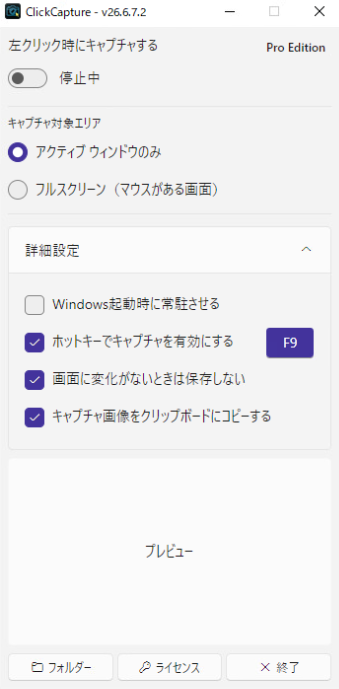
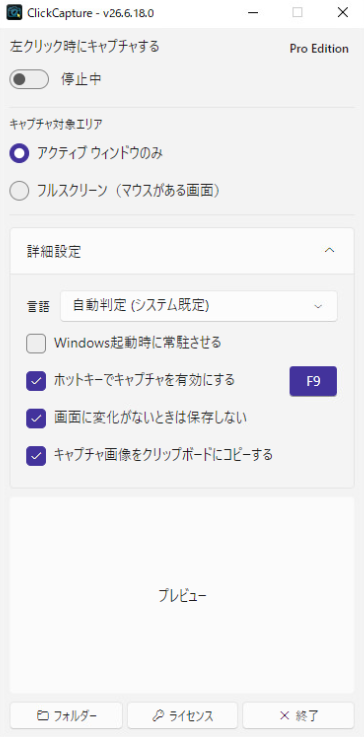
ClickCapture26.6.18.0

diff --git a/clickcapture.html b/clickcapture.html
@@ -192,6 +192,26 @@
                         </div>
 
                         <div class="col-md-6 mb-3">
+                            <div class="screenshot-container shadow" data-bs-toggle="modal" data-bs-target="#imageModal" onclick="showImage('/img/clickcapture-lang1.png')">
+                                <img src="/img/clickcapture-lang1.png" alt="多言語選択メニュー 1" class="screenshot-img">
+                            </div>
+                            <div class="screenshot-description">
+                                <h4 class="h6 fw-bold text-accent"><i class="bi bi-translate me-1"></i>多言語選択メニュー (1/2)</h4>
+                                <p class="text-white-50 small mb-0">新たに多言語表示に対応し、設定画面からお好みの言語のUIへ切り替えられるようになりました。</p>
+                            </div>
+                        </div>
+
+                        <div class="col-md-6 mb-3">
+                            <div class="screenshot-container shadow" data-bs-toggle="modal" data-bs-target="#imageModal" onclick="showImage('/img/clickcapture-lang2.png')">
+                                <img src="/img/clickcapture-lang2.png" alt="多言語選択メニュー 2" class="screenshot-img">
+                            </div>
+                            <div class="screenshot-description">
+                                <h4 class="h6 fw-bold text-accent"><i class="bi bi-translate me-1"></i>多言語選択メニュー (2/2)</h4>
+                                <p class="text-white-50 small mb-0">日本語や英語をはじめ、ユーザーの環境に合わせて全19言語の表示をサポートしています。</p>
+                            </div>
+                        </div>
+
+                        <div class="col-md-6 mb-3">
                             <div class="screenshot-container shadow" data-bs-toggle="modal" data-bs-target="#imageModal" onclick="showImage('/img/clickcapture-ent.png')">
                                 <img src="/img/clickcapture-ent.png" alt="企業環境の検出画面" class="screenshot-img">
                             </div>
@@ -290,7 +310,14 @@
                         <ul class="changelog-list mb-0">
 
                             <li class="changelog-item">
-                                <span class="badge bg-accent me-2">v26.6.13.1</span> <span class="text-white-50 small">2026.06.13</span>
+                                <span class="badge bg-accent me-2">v26.6.18.0</span> <span class="text-white-50 small">2026.06.18</span>
+                                <div class="mt-1 ps-1 text-white-50 small">
+                                    アプリの多言語化に対応し、全19言語をサポートしました。
+                                </div>
+                            </li>
+
+                            <li class="changelog-item mt-3">
+                                <span class="badge bg-secondary me-2">v26.6.13.1</span> <span class="text-white-50 small">2026.06.13</span>
                                 <div class="mt-1 ps-1 text-white-50 small">
                                     メイン画面のプレビュー画像をダブルクリックして、既定のビューワーで開く機能を追加しました。<br>
                                     タスクトレイメニューに「最新の画像を開く」項目を追加しました。

diff --git a/en/clickcapture.html b/en/clickcapture.html
@@ -191,6 +191,26 @@
                         </div>
 
                         <div class="col-md-6 mb-3">
+                            <div class="screenshot-container shadow" data-bs-toggle="modal" data-bs-target="#imageModal" onclick="showImage('/img/clickcapture-lang1-en.png')">
+                                <img src="/img/clickcapture-lang1-en.png" alt="Language Selection Menu 1" class="screenshot-img">
+                            </div>
+                            <div class="screenshot-description">
+                                <h4 class="h6 fw-bold text-accent"><i class="bi bi-translate me-1"></i>Language Selection Menu (1/2)</h4>
+                                <p class="text-white-50 small mb-0">Newly added multilingual display support allows you to easily switch the UI language to your preference from the settings menu.</p>
+                            </div>
+                        </div>
+
+                        <div class="col-md-6 mb-3">
+                            <div class="screenshot-container shadow" data-bs-toggle="modal" data-bs-target="#imageModal" onclick="showImage('/img/clickcapture-lang2-en.png')">
+                                <img src="/img/clickcapture-lang2-en.png" alt="Language Selection Menu 2" class="screenshot-img">
+                            </div>
+                            <div class="screenshot-description">
+                                <h4 class="h6 fw-bold text-accent"><i class="bi bi-translate me-1"></i>Language Selection Menu (2/2)</h4>
+                                <p class="text-white-50 small mb-0">Full UI display support is available for a total of 19 languages to best match your system environment.</p>
+                            </div>
+                        </div>
+
+                        <div class="col-md-6 mb-3">
                             <div class="screenshot-container shadow" data-bs-toggle="modal" data-bs-target="#imageModal" onclick="showImage('/img/clickcapture-ent-en.png')">
                                 <img src="/img/clickcapture-ent-en.png" alt="Enterprise Environment Detection" class="screenshot-img">
                             </div>
@@ -285,7 +305,14 @@
                         <ul class="changelog-list mb-0">
 
                             <li class="changelog-item">
-                                <span class="badge bg-accent me-2">v26.6.13.1</span> <span class="text-white-50 small">2026.06.13</span>
+                                <span class="badge bg-accent me-2">v26.6.18.0</span> <span class="text-white-50 small">2026.06.18</span>
+                                <div class="mt-1 ps-1 text-white-50 small">
+                                    Multilingual support implemented; now available in 19 languages.
+                                </div>
+                            </li>
+
+                            <li class="changelog-item mt-3">
+                                <span class="badge bg-secondary me-2">v26.6.13.1</span> <span class="text-white-50 small">2026.06.13</span>
                                 <div class="mt-1 ps-1 text-white-50 small">
                                     Added the ability to open the preview image in the default viewer by double-clicking it.<br>
                                     Added the "Open Last Image" option to the system tray menu.